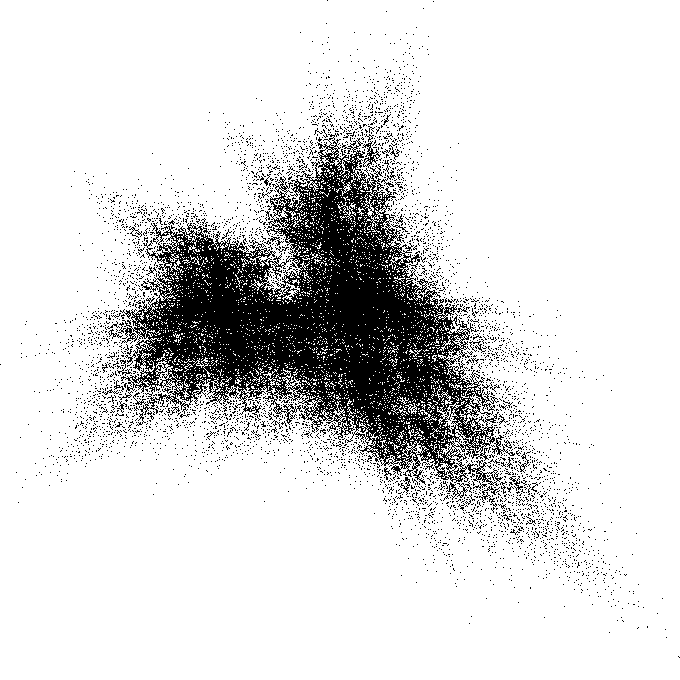
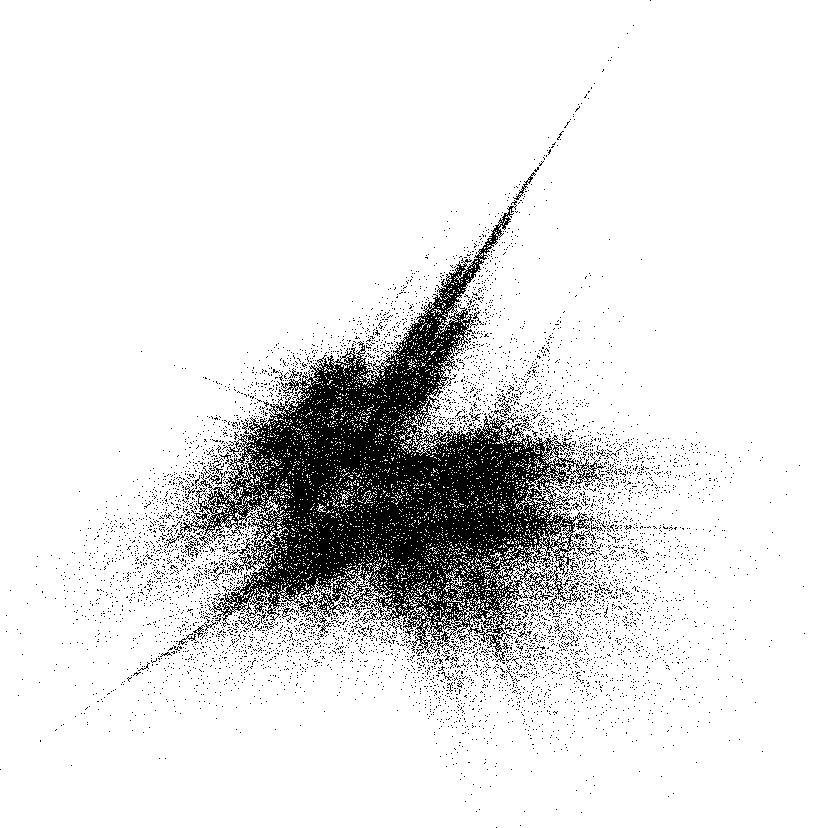
fixed task 2

Changed region(s): [[0.0926, 0.1544, 0.8647, 0.8956], [0.6485, 0.1544, 0.6794, 0.1853], [0.1544, 0.8029, 0.1853, 0.8338]]

diff --git a/Mathematical_Modeling/04_lab/02_task/attractor.py b/Mathematical_Modeling/04_lab/02_task/attractor.py
@@ -13,13 +13,13 @@ def attractor(matrixes, vectors, x_target, y_target, iter_count):
     proj_count = len(matrixes)
 
     for j in range(iter_count):
-        i = int(uniform(0, proj_count-1))
+        i = int(uniform(0, proj_count))
 
         a, b, c, d = matrixes[i][0][0], matrixes[i][0][1], matrixes[i][1][0], matrixes[i][1][1]
         e, f = vectors[i][0], vectors[i][1]
 
-        x_new = a*x + c*y + e
-        y_new = b*x + d*y + f
+        x_new = a*x + b*y + e
+        y_new = c*x + d*y + f
 
         x = x_new
         y = y_new
@@ -29,23 +29,25 @@ def attractor(matrixes, vectors, x_target, y_target, iter_count):
     return points
 
 
-def create_png(points, filename):
+def create_png(points, filename, precision):
+    mult = 10**precision  # точность, сколько знаков после запятой рассматривать
+
     x_max = max(points, key=lambda x: x[0])[0]
     x_min = min(points, key=lambda x: x[0])[0]
 
     y_max = max(points, key=lambda y: y[1])[1]
     y_min = min(points, key=lambda y: y[1])[1]
 
-    dim_x = x_max - x_min
-    dim_y = y_max - y_min
+    dim_x = (x_max - x_min)*mult
+    dim_y = (y_max - y_min)*mult
     
     dim = int(max(dim_x, dim_y))+1
-    
+
     image_data = [[1 for i in range(dim)] for j in range(dim)]
 
     for point in points:
-        x = int(point[0] - x_min)
-        y = int(point[1] - y_min)
+        x = int((point[0] - x_min)*mult)
+        y = int((point[1] - y_min)*mult)
 
         image_data[y][x] = 0
 
@@ -60,6 +62,7 @@ def parse():
 
     parser.add_argument("-x", required=True, type=int, help="the x coordinate for the root of fractal")
     parser.add_argument("-y", required=True, type=int, help="the y coordinate for the root of fractal")
+    parser.add_argument("-p", required=True, type=int, help="the rounding of floating point")
     parser.add_argument("-i", required=True, type=int, help="the number of iterations")
 
     return parser.parse_args()
@@ -88,7 +91,8 @@ def main():
     args = parse()
 
     points = attractor(matrixes, vectors, args.x, args.y, args.i)
-    dim = create_png(points, f"{args.i}_iterations.png")
+
+    dim = create_png(points, f"{args.i}_iterations.png", args.p)
 
     print("Fractal size =", log(args.i) / log(dim))
 
